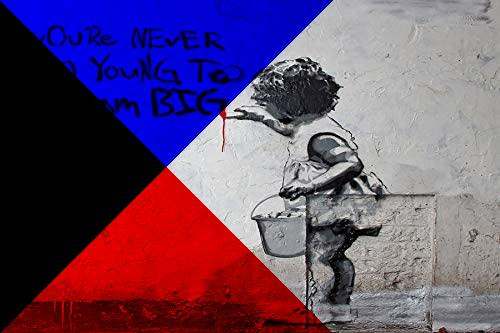
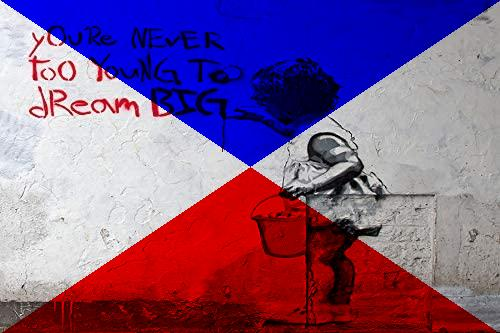
ODE Solution Added

diff --git a/Playing.py b/Playing.py
@@ -75,7 +75,7 @@ def explicitWave(x,t,U,r): # with BC's set up as tutorial question
     return U
 
 diff = explicitWave(x,t,U,r)
-#print(diff)
+print(diff)
 
 """
 # Plot results
@@ -352,7 +352,7 @@ plt.title('Barycentric Interpolation (Simple Visual Test)')
 plt.xlabel('x')
 plt.ylabel('y')
 plt.grid(True)
-#plt.show()
+plt.show()
 
 ## with secant method:
 
@@ -368,7 +368,7 @@ def secant(x0,x1,tol): # two initial guesses
         #print("tried again secant")
     return xn_2
 
-#print(secant(R,1.99*R,0.01))
+print(secant(R,1.99*R,0.01))
 
 
 """
@@ -449,7 +449,7 @@ for i in range(0,N):
 I = trapz(x,G)
 
 # for an emisphere the volume is:
-#print((4/3*np.pi*a*b*h)/2)
+print((4/3*np.pi*a*b*h)/2)
 
 """
 3D Integration of an aerofoil
@@ -545,4 +545,110 @@ for i in range(N):
 I = trapz(x, G)
 print("Integrated volume I =", I)
 
-#plt.show()
+plt.show()
+
+
+"""
+Langrangian for CID no. Points
+"""
+
+xn = np.arange(1,9) # xn points 1,2,3,4,5,6,7,8
+yn = np.array([0,2,4,1,3,4,0,0])
+
+dx = 0.1
+xp = np.arange(1,8+dx,dx)# from 1 to 8 with dx=0.1 steps
+
+def Langrangian(x_known, y_known, xp):
+    n = len(x_known) # the degree of P polynomial
+    #print("n",n)
+    P = 0 # init this is the Langrangian Polynomial
+    Li = 1
+    for i in range(0,n):
+        #print("i",i)
+        for j in range(0,n):
+            if i != j:
+                #print("j",j)
+                Li *= (xp - x_known[j])/(x_known[i]-x_known[j])
+        P += y_known[i] * Li
+        Li = 1
+    return P
+
+def InterpPoints(x_known,y_known, InterpMethod, xp_points):
+    yp_points = xp_points.copy()
+    for i in range(0,len(xp_points)):
+        yp_points[i] = InterpMethod(x_known,y_known,xp_points[i])
+    return yp_points
+
+yp = InterpPoints(xn,yn,Langrangian,xp)
+print("interpolated lagrangian points: ",yp)
+
+# Plot results
+plt.figure(figsize=(10, 6))
+plt.scatter(xn,yn,c="red", s=20) # known (s = controls size of points)
+plt.scatter(xp,yp,c="blue", s=5) # interpolated
+plt.xlabel('x')
+plt.ylabel('y')
+plt.title('Lagrnagian interpolation 0 to 8 with my CID')
+plt.legend()
+plt.grid(True)
+plt.show()
+
+
+"""
+Solving a 2nd Order ODE
+"""
+# Set parameters and initial conditions
+x0 = 0
+x_end = 15
+dx = 0.02
+x = np.arange(x0, x_end + dx, dx)
+
+# Initial conditions (use your CID digits as required)
+y0 = 4      # y(0) = 3rd digit of CID
+dy0 = 3     # y'(0) = 5th digit of CID
+
+# Initialize arrays
+y = np.zeros_like(x)
+dy = np.zeros_like(x)
+
+# Apply initial values
+y[0] = y0
+dy[0] = dy0
+
+# --------------------------------------
+# Define your second-order ODE here:
+# dy2 = f(x, y, dy)
+# --------------------------------------
+def f(x, y, dy):
+    return -5*x*dy - (x + 7)*np.sin(x)
+
+# --------------------------------------
+# Forward Euler Solver
+# --------------------------------------
+for i in range(1, len(x)):
+    y[i] = y[i-1] + dx * dy[i-1]
+    dy[i] = dy[i-1] + dx * f(x[i-1], y[i-1], dy[i-1])
+
+# --------------------------------------
+# Plotting
+# --------------------------------------
+plt.figure(figsize=(10, 5))
+plt.plot(x, y, label='y(x)', linewidth=2)
+plt.xlabel("x")
+plt.ylabel("y")
+plt.title("Forward Euler Solution to Second-Order ODE")
+plt.grid(True)
+plt.legend()
+plt.tight_layout()
+plt.show()
+
+
+"""
+Integrate Area between circle and a function
+"""
+dx = 0.01
+xn = np.arange(0,13+dx,dx)
+
+def circ(xn): # (x - 3)^2 + y^2 = 10^2
+    return (100 - (xn-3)**2)**0.5
+

diff --git a/PDE_Explicit.py b/PDE_Explicit.py
@@ -96,3 +96,53 @@ plt.legend()
 plt.grid(True)
 plt.show()
 
+
+import numpy as np
+import matplotlib.pyplot as plt
+
+# --------------------------------------
+# Set parameters and initial conditions
+# --------------------------------------
+x0 = 0
+x_end = 15
+dx = 0.02
+x = np.arange(x0, x_end + dx, dx)
+
+# Initial conditions (use your CID digits as required)
+y0 = 3      # y(0) = 3rd digit of CID
+dy0 = 5     # y'(0) = 5th digit of CID
+
+# Initialize arrays
+y = np.zeros_like(x)
+dy = np.zeros_like(x)
+
+# Apply initial values
+y[0] = y0
+dy[0] = dy0
+
+# --------------------------------------
+# Define your second-order ODE here:
+# dy2 = f(x, y, dy)
+# --------------------------------------
+def f(x, y, dy):
+    return -5*x*dy - (x + 7)*np.sin(x)
+
+# --------------------------------------
+# Forward Euler Solver
+# --------------------------------------
+for i in range(1, len(x)):
+    y[i] = y[i-1] + dx * dy[i-1]
+    dy[i] = dy[i-1] + dx * f(x[i-1], y[i-1], dy[i-1])
+
+# --------------------------------------
+# Plotting
+# --------------------------------------
+plt.figure(figsize=(10, 5))
+plt.plot(x, y, label='y(x)', linewidth=2)
+plt.xlabel("x")
+plt.ylabel("y")
+plt.title("Forward Euler Solution to Second-Order ODE")
+plt.grid(True)
+plt.legend()
+plt.tight_layout()
+plt.show()

diff --git a/Images.py b/Images.py
@@ -21,14 +21,19 @@ plt.axis('off')  # Hide axes
 
 # 2) Render blue and red
 # img_matrix is 333x500 matrix and rgb, top triangle only b, bottom only r
+slope = (np.shape(img_matrix)[0])/(np.shape(img_matrix)[1])
 # looping through each pixel
 for i in range(0,(np.shape(img_matrix)[0])): # going down height
     for j in range(0,(np.shape(img_matrix)[1])): # going along width half way
-        if i>j: # in bottom triangle
-            img_mod[i,j,1]=0 # remove green
-            img_mod[i,j,2]=0 # remove blue
-        if i+j<np.shape(img_matrix)[0]: # in bottom triangle
-            img_mod[i,j,1]=0 # remove green
-            img_mod[i,j,0]=0 # remove red
+        # Top triangle → BLUE (remove red and green)
+        if i < slope * j and i < (np.shape(img_matrix)[0]) - slope * j:
+            img_mod[i, j, 0] = 0  # red off
+            img_mod[i, j, 1] = 0  # green off
 
-img_sml = plt.imsave('mattiesbanksy.jpg',img_mod)
+        # Bottom triangle → RED (remove green and blue)
+        elif i > slope * j and i > (np.shape(img_matrix)[0]) - slope * j:
+            img_mod[i, j, 1] = 0  # green off
+            img_mod[i, j, 2] = 0  # blue off
+
+plt.imsave('mattiesbanksy.jpg',img_mod)
+
